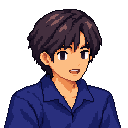
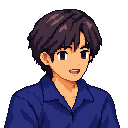
fix: edit sprite for opening dialogue (#30)
* fix: edit sprite for opening dialogue

* fix: replace readme

diff --git a/README.md b/README.md
@@ -1,1 +1,1 @@
-# portfolio
+Check out my [Portfolio](https://peternguyen4.github.io/)!
